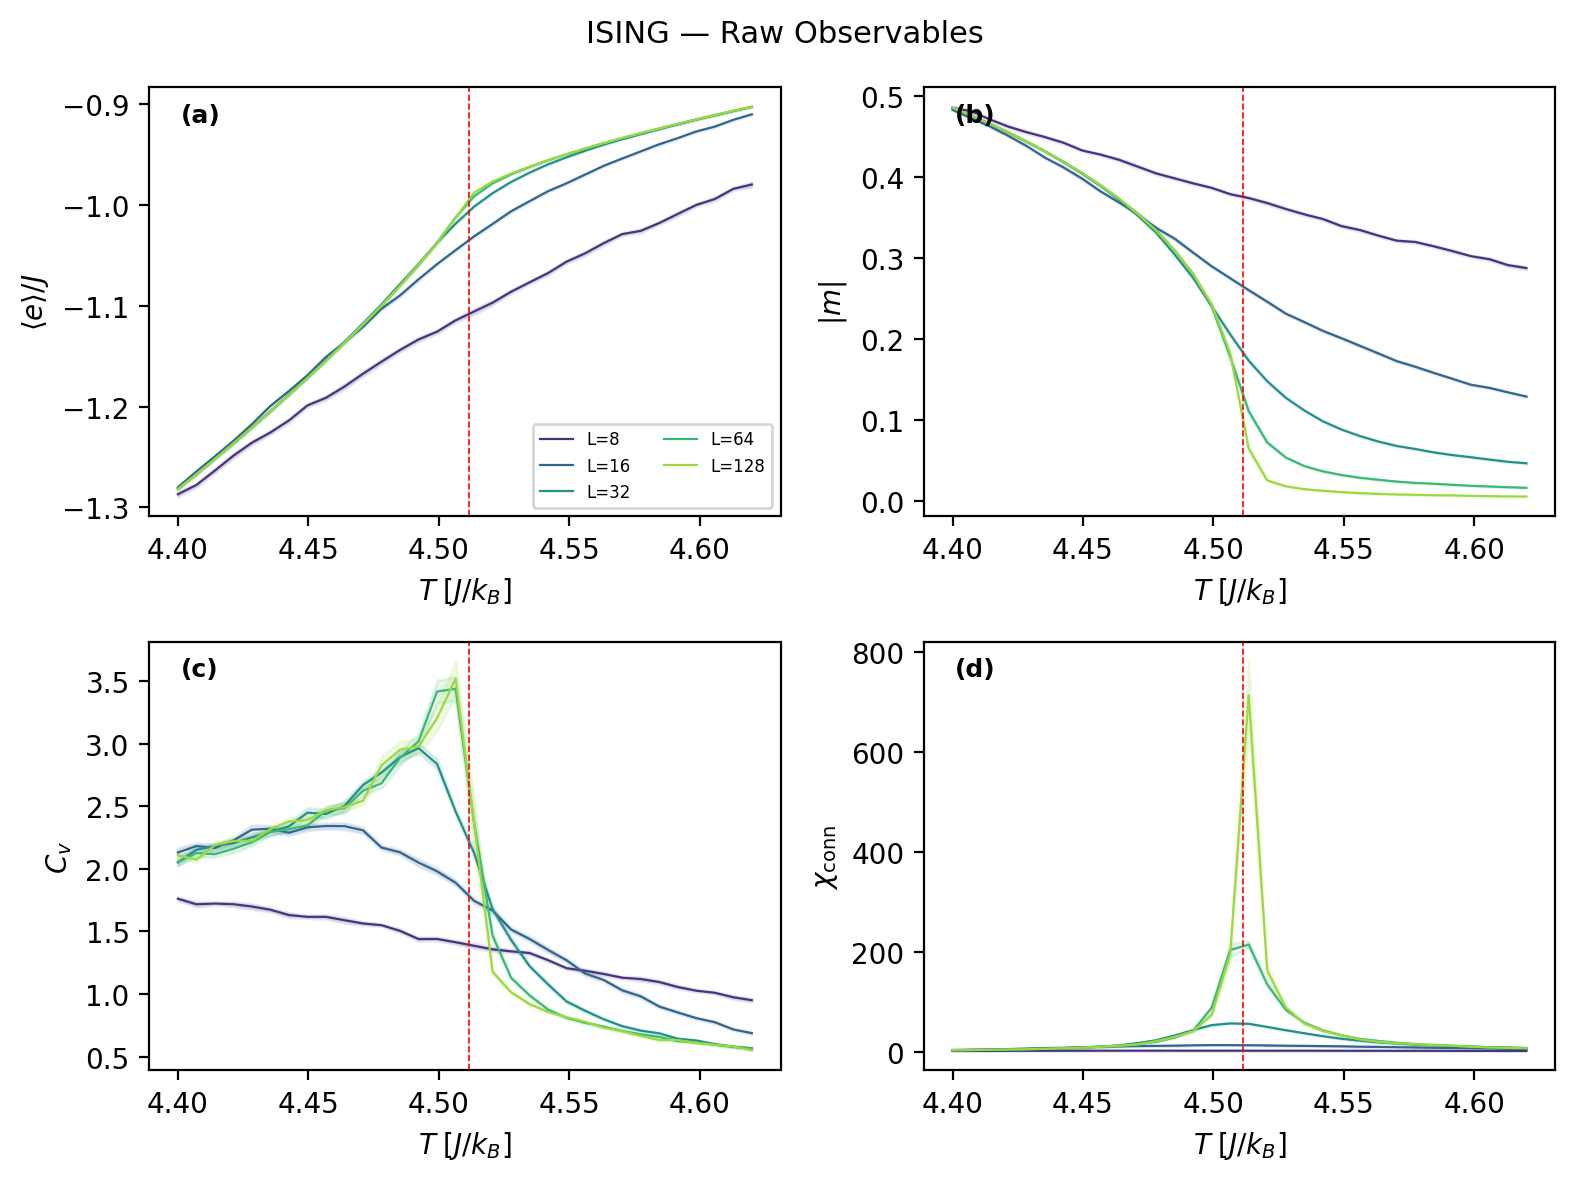
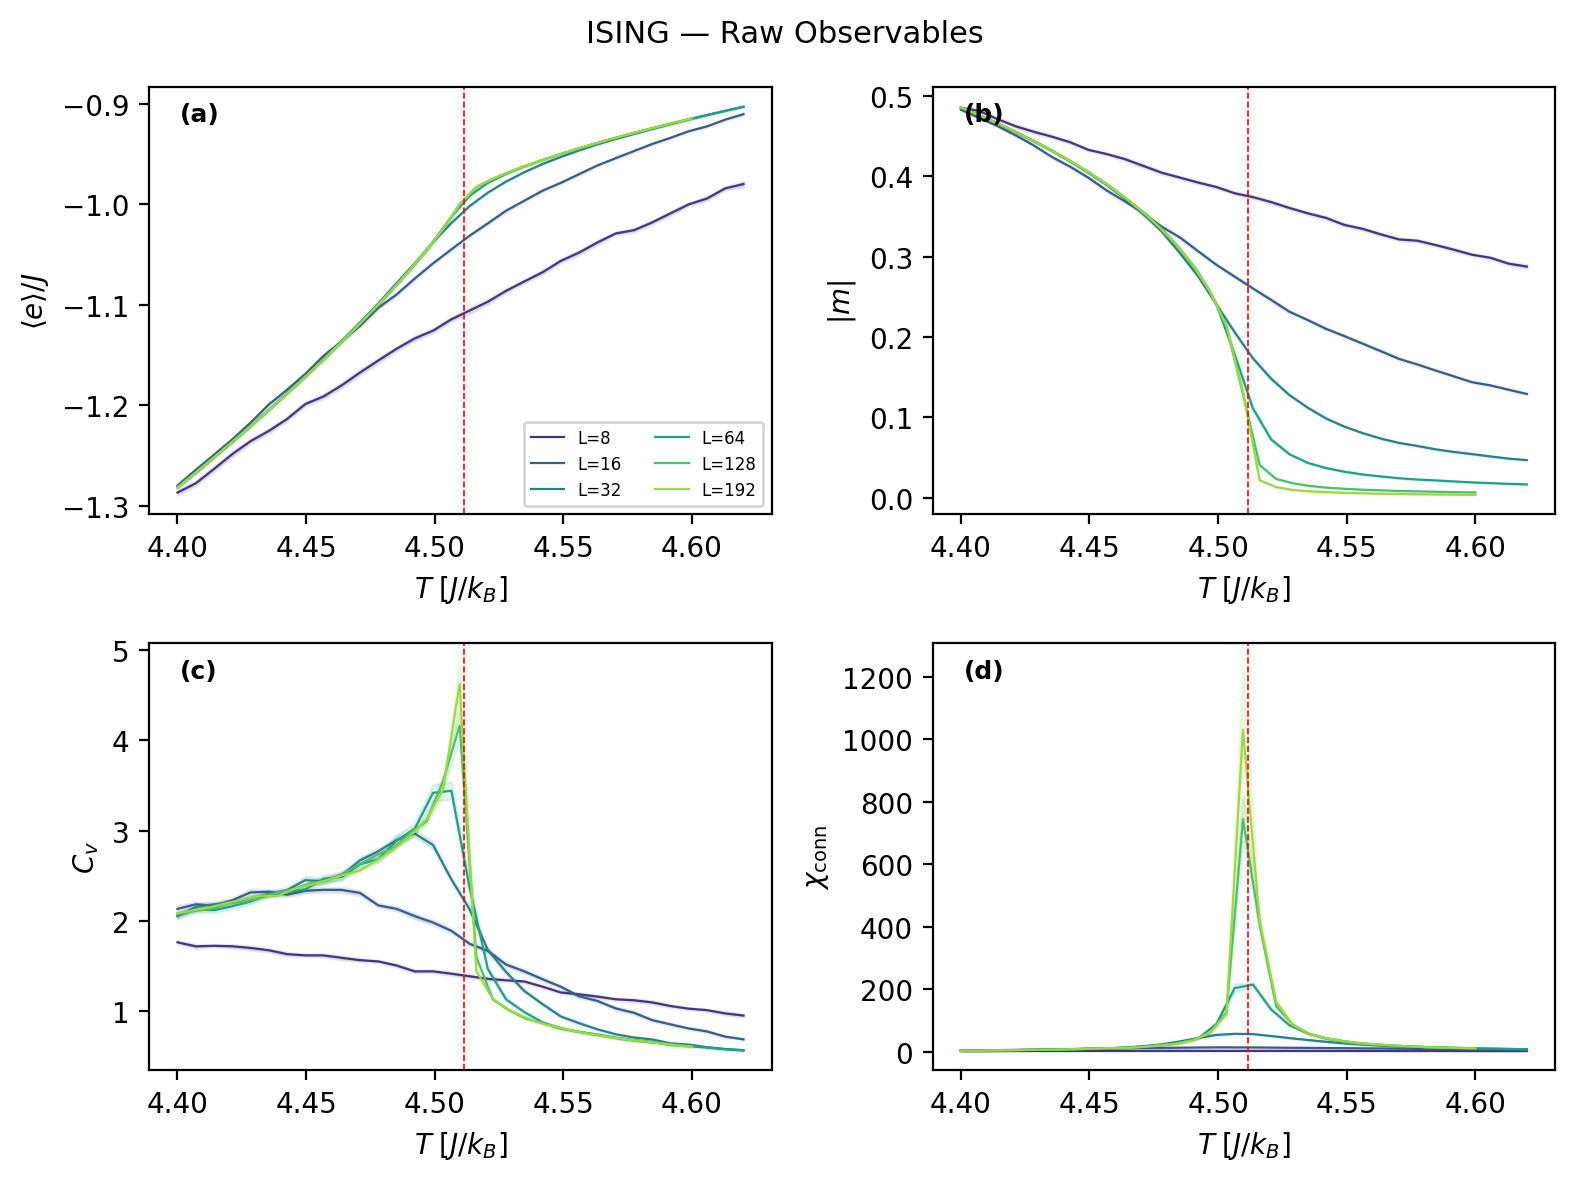
Add Wolff embedding for O(n) models + updated FSS results
Implement CPU-side Wolff cluster algorithm for Heisenberg/XY models:
- Project spins onto random axis, BFS cluster build, reflect cluster
- Reduces critical slowing down (τ ~ L² → τ ~ 10 sweeps)
- New --wolff-every flag (default 10) in gpu_fss.rs

Updated results with N=128 (500k samples) and N=192 Ising:
- Ising: Tc 0.015%, beta/nu 0.3%, nu 0.1%
- Heisenberg N=128 with Wolff: Tc 0.011%, beta/nu 2.0%

diff --git a/src/cuda/gpu_lattice_continuous.rs b/src/cuda/gpu_lattice_continuous.rs
@@ -1,4 +1,6 @@
 use cudarc::driver::{CudaDevice, CudaSlice, LaunchAsync, LaunchConfig};
+use rand::Rng;
+use std::collections::VecDeque;
 use std::sync::Arc;
 
 use crate::cuda::reduce_gpu;
@@ -247,6 +249,98 @@ impl ContinuousGpuLattice {
 
     pub fn device(&self) -> &Arc<CudaDevice> {
         &self.device
+    }
+
+    /// Wolff embedding cluster step for O(n) models.
+    ///
+    /// Chooses a random unit vector r, projects all spins onto r to get
+    /// effective Ising variables, builds a Wolff cluster on the projected
+    /// system, then reflects cluster spins: S_i → S_i - 2(S_i·r)r.
+    ///
+    /// This dramatically reduces critical slowing down (z ≈ 0.1 vs z ≈ 2
+    /// for Metropolis) at the cost of a GPU→CPU→GPU round-trip.
+    pub fn wolff_step<R: Rng>(&mut self, beta: f32, j: f32, rng: &mut R) -> anyhow::Result<()> {
+        let n = self.n;
+        let nc = self.n_comp;
+        let n_sites = n * n * n;
+
+        // Copy spins from GPU to host
+        let mut spins = self.device.dtoh_sync_copy(&self.spins)?;
+
+        // Choose random reflection vector r on unit sphere/circle
+        let r: Vec<f32> = if nc == 3 {
+            let z: f32 = rng.gen_range(-1.0..1.0);
+            let phi: f32 = rng.gen_range(0.0..std::f32::consts::TAU);
+            let rho = (1.0 - z * z).sqrt();
+            vec![rho * phi.cos(), rho * phi.sin(), z]
+        } else {
+            let angle: f32 = rng.gen_range(0.0..std::f32::consts::TAU);
+            vec![angle.cos(), angle.sin()]
+        };
+
+        // Compute projected spins: proj[i] = S_i · r
+        let proj: Vec<f32> = (0..n_sites)
+            .map(|i| {
+                let mut dot = 0.0f32;
+                for c in 0..nc {
+                    dot += spins[i * nc + c] * r[c];
+                }
+                dot
+            })
+            .collect();
+
+        // Pick random seed site
+        let seed_site: usize = rng.gen_range(0..n_sites);
+
+        // BFS Wolff cluster on projected spins
+        let mut in_cluster = vec![false; n_sites];
+        let mut queue = VecDeque::new();
+        in_cluster[seed_site] = true;
+        queue.push_back(seed_site);
+
+        while let Some(site) = queue.pop_front() {
+            let iz = site / (n * n);
+            let iy = (site % (n * n)) / n;
+            let ix = site % n;
+
+            let neighbors = [
+                iz * n * n + iy * n + (ix + 1) % n,
+                iz * n * n + iy * n + (ix + n - 1) % n,
+                iz * n * n + ((iy + 1) % n) * n + ix,
+                iz * n * n + ((iy + n - 1) % n) * n + ix,
+                ((iz + 1) % n) * n * n + iy * n + ix,
+                ((iz + n - 1) % n) * n * n + iy * n + ix,
+            ];
+
+            for &nb in &neighbors {
+                if in_cluster[nb] {
+                    continue;
+                }
+                let bond = proj[site] * proj[nb];
+                if bond <= 0.0 {
+                    continue;
+                }
+                let p_add = 1.0 - (-2.0 * beta * j * bond).exp();
+                if rng.gen::<f32>() < p_add {
+                    in_cluster[nb] = true;
+                    queue.push_back(nb);
+                }
+            }
+        }
+
+        // Flip cluster: S_i → S_i - 2(S_i · r)r
+        for i in 0..n_sites {
+            if in_cluster[i] {
+                for c in 0..nc {
+                    spins[i * nc + c] -= 2.0 * proj[i] * r[c];
+                }
+            }
+        }
+
+        // Copy back to GPU
+        self.device.htod_sync_copy_into(&spins, &mut self.spins)?;
+
+        Ok(())
     }
 }
 

diff --git a/src/bin/gpu_fss.rs b/src/bin/gpu_fss.rs
@@ -34,6 +34,7 @@ fn main() {
     let mut delta = 0.5_f64;
     let mut n_overrelax = 5usize;
     let mut measure_every = 1usize;
+    let mut wolff_every = 10usize;
 
     let mut i = 1;
     while i < args.len() {
@@ -94,6 +95,10 @@ fn main() {
                 measure_every = parse_arg(&args, i, "--measure-every");
                 i += 2;
             }
+            "--wolff-every" => {
+                wolff_every = parse_arg(&args, i, "--wolff-every");
+                i += 2;
+            }
             _ => {
                 i += 1;
             }
@@ -145,6 +150,7 @@ fn main() {
             delta as f32,
             n_overrelax,
             measure_every,
+            wolff_every,
         ),
         "heisenberg" => run_continuous_fss(
             &sizes,
@@ -160,6 +166,7 @@ fn main() {
             delta as f32,
             n_overrelax,
             measure_every,
+            wolff_every,
         ),
         _ => {
             eprintln!("Error: --model must be ising, xy, or heisenberg");
@@ -795,6 +802,7 @@ fn run_continuous_fss(
     delta: f32,
     n_overrelax: usize,
     measure_every: usize,
+    wolff_every: usize,
 ) {
     use cudarc::driver::CudaDevice;
     use ising::cuda::gpu_lattice_continuous::ContinuousGpuLattice;
@@ -859,14 +867,27 @@ fn run_continuous_fss(
             .collect();
         let mut energies = vec![0.0_f64; n_replicas]; // reused every sweep
 
+        if wolff_every > 0 {
+            eprintln!("  N={n}: Wolff embedding every {wolff_every} sweeps");
+        }
         eprintln!("  N={n}: sampling {samples} sweeps with PT (measure every {measure_every})...");
         for sweep in 0..samples {
-            // Sweep all replicas
+            // Sweep all replicas (Metropolis + over-relaxation)
             for (r, lat) in replicas.iter_mut().enumerate() {
                 let t_idx = replica_to_temp[r];
                 let beta = (1.0 / temperatures[t_idx]) as f32;
                 lat.sweep(beta, 1.0, delta, n_overrelax)
                     .expect("sweep failed");
+            }
+
+            // Wolff embedding cluster step for global decorrelation
+            if wolff_every > 0 && (sweep + 1) % wolff_every == 0 {
+                for (r, lat) in replicas.iter_mut().enumerate() {
+                    let t_idx = replica_to_temp[r];
+                    let beta = (1.0 / temperatures[t_idx]) as f32;
+                    lat.wolff_step(beta, 1.0, &mut rng)
+                        .expect("Wolff step failed");
+                }
             }
 
             let do_measure = (sweep + 1) % measure_every == 0;
@@ -981,6 +1002,7 @@ fn run_continuous_fss(
     _: u64,
     _: &str,
     _: f32,
+    _: usize,
     _: usize,
     _: usize,
 ) {
